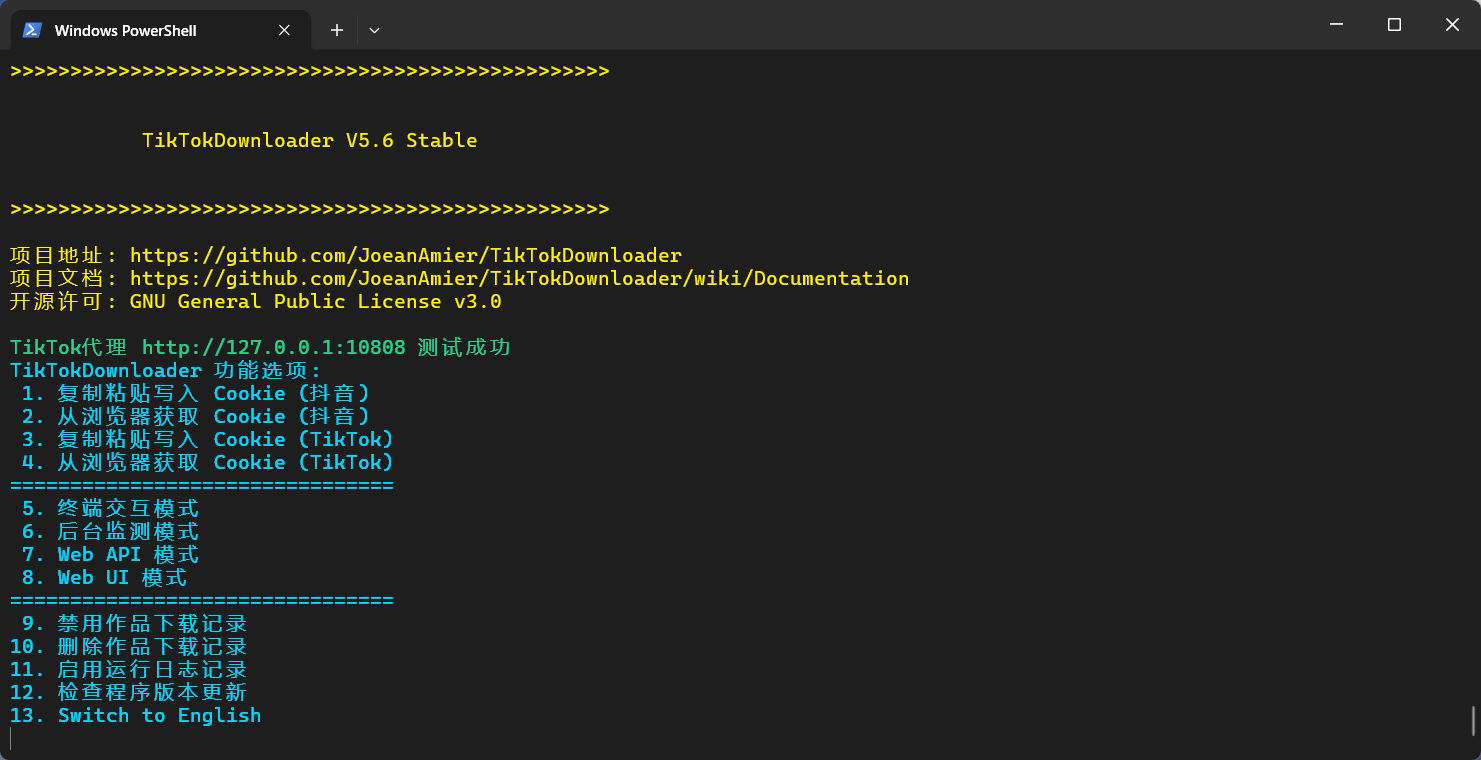
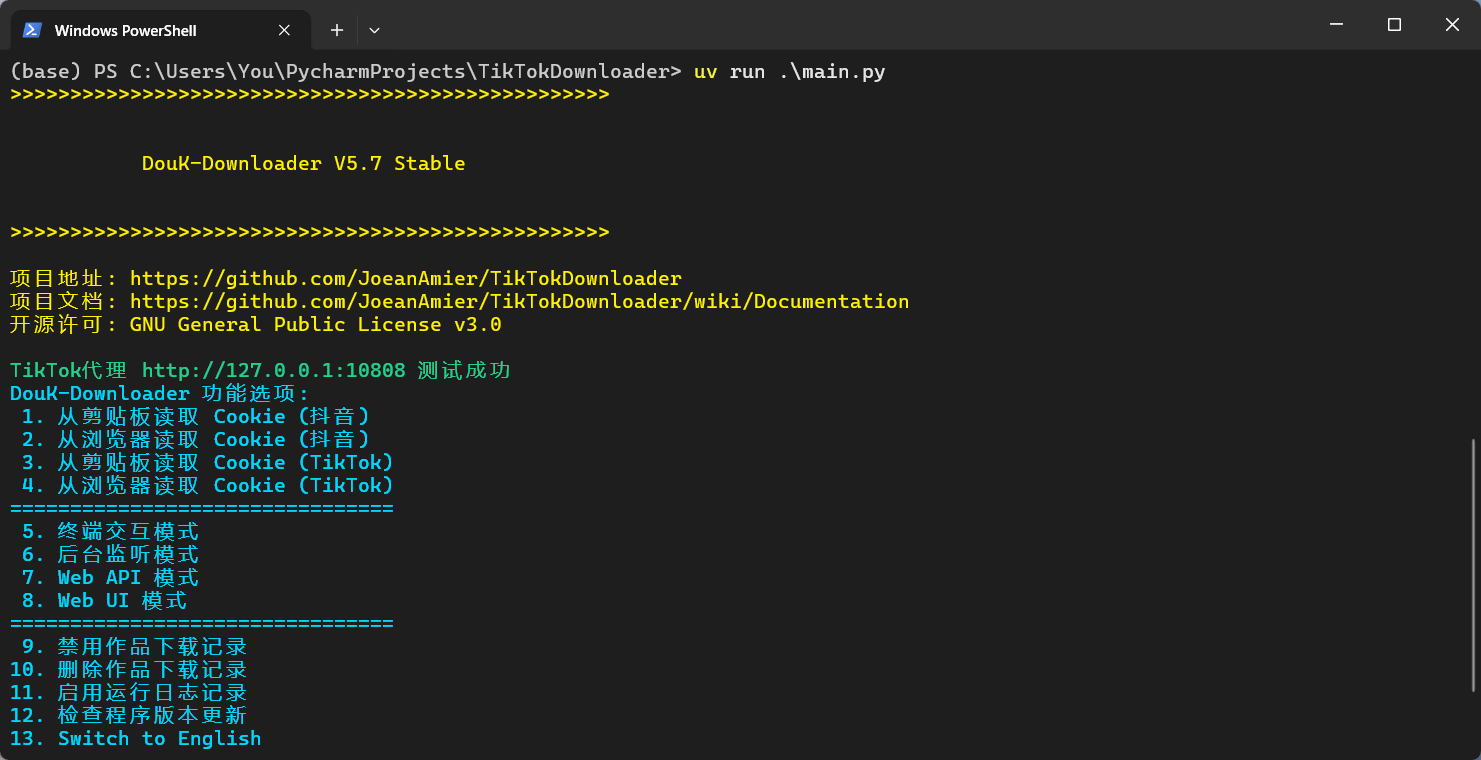
feat(app): 发布 5.7 版本

diff --git a/src/interface/live.py b/src/interface/live.py
@@ -18,8 +18,8 @@ class Live(API):
         cookie: str = "",
         proxy: str = None,
         web_rid: str = ...,
-        room_id: str = None,
-        sec_user_id: str = None,
+        room_id: str = ...,
+        sec_user_id: str = "",
     ):
         super().__init__(params, cookie, proxy)
         self.black_headers = params.headers_download
@@ -34,7 +34,7 @@ class Live(API):
     ) -> dict:
         if isinstance(self.web_rid, str):
             return await self.with_web_rid()
-        elif self.room_id and self.sec_user_id:
+        elif self.room_id:
             return await self.with_room_id()
         else:
             raise DownloaderError
@@ -68,12 +68,11 @@ class Live(API):
         )
 
     async def with_room_id(self) -> dict:
-        params = {  # 已失效
+        params = {
             "type_id": "0",
             "live_id": "1",
             "room_id": self.room_id,
             "sec_user_id": self.sec_user_id,
-            "version_code": "99.99.99",
             "app_id": "1128",
         }
         return await self.request_data(
@@ -89,7 +88,7 @@ async def test():
     async with Params() as params:
         i = Live(
             params,
-            web_rid="",
+            room_id="",
         )
         print(await i.run())
 

diff --git a/src/interface/mix_tiktok.py b/src/interface/mix_tiktok.py
@@ -1,6 +1,4 @@
-from typing import Callable
-from typing import TYPE_CHECKING
-from typing import Union
+from typing import TYPE_CHECKING, Callable, Union
 
 from src.interface.template import APITikTok
 from src.translation import _
@@ -136,9 +134,14 @@ async def test():
     from src.testers import Params
 
     async with Params() as params:
-        i = MixTikTok(
+        # i = MixTikTok(
+        #     params,
+        #     mix_id="",
+        # )
+        # print(await i.run())
+        i = MixListTikTok(
             params,
-            mix_id="",
+            sec_user_id="",
         )
         print(await i.run())
 

diff --git a/src/custom/internal.py b/src/custom/internal.py
@@ -4,7 +4,7 @@ PROJECT_ROOT = Path(__file__).resolve().parent.parent.parent.joinpath("Volume")
 PROJECT_ROOT.mkdir(exist_ok=True)
 VERSION_MAJOR = 5
 VERSION_MINOR = 7
-VERSION_BETA = True
+VERSION_BETA = False
 __VERSION__ = f"{VERSION_MAJOR}.{VERSION_MINOR}.{'beta' if VERSION_BETA else 'stable'}"
 PROJECT_NAME = f"DouK-Downloader V{VERSION_MAJOR}.{VERSION_MINOR} {
     'Beta' if VERSION_BETA else 'Stable'

diff --git a/docs/DouK-Downloader文档.md b/docs/DouK-Downloader文档.md
@@ -16,7 +16,7 @@
 </div>
 <br>
 <p>🔥 <b>TikTok 发布/喜欢/合辑/直播/视频/图集/音乐；抖音发布/喜欢/收藏/收藏夹/视频/图集/实况/直播/音乐/合集/评论/账号/搜索/热榜数据采集工具：</b>完全开源，基于 HTTPX 模块实现的免费数据采集和文件下载工具；批量下载抖音账号发布、喜欢、收藏、收藏夹作品；批量下载 TikTok 账号发布、喜欢作品；下载抖音链接或 TikTok 链接作品；获取抖音直播推流地址；下载抖音直播视频；获取 TikTok 直播推流地址；下载 TikTok 直播视频；采集抖音作品评论数据；批量下载抖音合集作品；批量下载 TikTok 合辑作品；采集抖音账号详细数据；采集抖音用户 / 作品 / 直播搜索结果；采集抖音热榜数据。</p>
-<p>⭐ <b>项目版本：<code>5.7 Beta</code>；更新日期：<code>2025/8/19</code></b></p>
+<p>⭐ <b>项目版本：<code>5.7 Stable</code>；文档更新日期：<code>2025/8/19</code></b></p>
 <p>⭐ <b>项目文档正在完善，如果发现任何错误或描述模糊之处，请告知作者以便改进！本项目历史名称：<code>TikTokDownloader</code></b></p>
 <hr>
 <h1>快速入门</h1>
@@ -175,7 +175,7 @@ built with gcc 14.2.0 (crosstool-NG 1.27.0.18_7458341)
 </tbody></table>
 <h2>关闭平台功能</h2>
 <p>本项目支持抖音平台和 TikTok 平台的数据采集和文件下载功能，平台功能默认开启，如果不需要使用平台的任何功能，可以编辑配置文件关闭平台功能。</p>
-<p><del>本项目内置参数更新机制，程序会周期性更新抖音与 TikTok 请求的部分参数，以保持参数的有效性（或许没有效果？），该功能无法防止参数失效，参数失效后需要重新写入 Cookie；关闭平台功能后，对应平台的参数更新功能将会禁用！</del></p>
+<p>本项目内置参数更新机制，程序会周期性更新抖音与 TikTok 请求的部分参数，以保持参数的有效性（或许没有效果？），该功能无法防止参数失效，参数失效后需要重新写入 Cookie；关闭平台功能后，对应平台的参数更新功能将会禁用！</p>
 <h1>配置文件</h1>
 <p>配置文件：项目根目录下的 <code>./Volume/settings.json</code> 文件，可以自定义设置程序部分运行参数。</p>
 <p>若无特殊需求，大部分配置参数无需修改，直接使用默认值即可。</p>
@@ -555,7 +555,7 @@ built with gcc 14.2.0 (crosstool-NG 1.27.0.18_7458341)
     "browser_language": "zh-SG",
     "browser_name": "Mozilla",
     "browser_platform": "Win32",
-    "browser_version": "5.0 (Windows NT 10.0; Win64; x64) AppleWebKit/537.36 (KHTML, like Gecko) Chrome/136.0.0.0 Safari/537.36",
+    "browser_version": "5.0 (Windows NT 10.0; Win64; x64) AppleWebKit/537.36 (KHTML, like Gecko) Chrome/139.0.0.0 Safari/537.36",
     "language": "zh-Hans",
     "os": "windows",
     "priority_region": "CN",
@@ -737,15 +737,14 @@ built with gcc 14.2.0 (crosstool-NG 1.27.0.18_7458341)
 <li>v2rayN: <code>http://127.0.0.1:10809</code></li>
 </ul>
 <h1>高级配置</h1>
-<p>如果想要进一步修改程序功能，可以编辑 <code>src/custom</code> 文件夹内容（仅适用于通过源码运行项目），按照注释指引和实际需求进行自定义修改。</p>
+<p>如果想要进一步修改程序功能，可以编辑 <code>src/custom</code> 文件夹内容（不适用于可执行文件），按照注释指引和实际需求进行自定义修改。</p>
 <b>部分可自定义设置的功能：</b>
 <ul>
 <li>设置作品文件下载的最大线程数量</li>
-<li>设置文件名称的作品描述长度限制</li>
 <li>设置非法字符替换规则</li>
 <li>开启服务器模式局域网访问功能</li>
 <li>设置服务器模式主机及端口</li>
-<li><del>设置平台参数更新间隔</del></li>
+<li>设置平台参数更新间隔</li>
 <li>设置彩色交互提示颜色</li>
 <li>设置请求数据延时间隔</li>
 <li>设置自定义作品筛选规则</li>
@@ -777,7 +776,7 @@ built with gcc 14.2.0 (crosstool-NG 1.27.0.18_7458341)
 <li><code>https://www.douyin.com/user/账号ID</code></li>
 <li><code>https://www.douyin.com/user/账号ID?modal_id=作品ID</code></li>
 </ul>
-<p>如果需要大批量采集账号作品，建议启用 <code>src/custom/function.py</code> 文件的 <code>suspend</code> 方法。</p>
+<p><del>如果需要大批量采集账号作品，建议启用 <code>src/custom/function.py</code> 文件的 <code>suspend</code> 方法。</del>（默认启用）</p>
 <p><b>下载账号喜欢作品时需要使用已登录的 Cookie，否则程序可能无法正常获取账号消息！</b></p>
 <p>如果当前账号昵称或账号标识不是有效的文件夹名称时，程序会自动替换为账号 ID。</p>
 <p>每个账号的作品会下载至 <code>root</code> 参数路径下的账号文件夹，账号文件夹格式为 <code>UID123456789_mark_类型</code> 或者 <code>UID123456789_账号昵称_类型</code></p>
@@ -851,7 +850,7 @@ built with gcc 14.2.0 (crosstool-NG 1.27.0.18_7458341)
 <li><code>https://www.douyin.com/collection/合集ID</code></li>
 <li><code>https://www.douyin.com/channel/分区ID?modal_id=作品ID</code></li>
 </ul>
-<p>如果需要大批量采集合集作品，建议启用 <code>src/custom/function.py</code> 文件的 <code>suspend</code> 方法。</p>
+<p><del>如果需要大批量采集合集作品，建议启用 <code>src/custom/function.py</code> 文件的 <code>suspend</code> 方法。</del>（默认启用）</p>
 <p>如果当前合集标题或合集标识不是有效的文件夹名称时，程序会自动替换为合集 ID。</p>
 <p>每个合集的作品会下载至 <code>root</code> 参数路径下的合集文件夹，合集文件夹格式为 <code>MIX123456789_mark_合集作品</code> 或者 <code>MIX123456789_合集标题_合集作品</code></p>
 <h3>采集账号详细数据(抖音)</h3>
@@ -1057,7 +1056,7 @@ built with gcc 14.2.0 (crosstool-NG 1.27.0.18_7458341)
 <li><code>https://www.tiktok.com/@TikTok号</code></li>
 <li><code>https://www.tiktok.com/@TikTok号/video/作品ID</code></li>
 </ul>
-<p>如果需要大批量采集账号作品，建议启用 <code>src/custom/function.py</code> 文件的 <code>suspend</code> 方法。</p>
+<p><del>如果需要大批量采集账号作品，建议启用 <code>src/custom/function.py</code> 文件的 <code>suspend</code> 方法。</del>（默认启用）</p>
 <p>如果当前账号昵称或账号标识不是有效的文件夹名称时，程序会自动替换为账号 ID。</p>
 <p>每个账号的作品会下载至 <code>root</code> 参数路径下的账号文件夹，账号文件夹格式为 <code>UID123456789_mark_类型</code> 或者 <code>UID123456789_账号昵称_类型</code></p>
 <h3>批量下载链接作品(TikTok)</h3>
@@ -1083,7 +1082,7 @@ built with gcc 14.2.0 (crosstool-NG 1.27.0.18_7458341)
 <li><code>https://www.tiktok.com/@TikTok号/playlist/合辑信息</code></li>
 <li><code>https://www.tiktok.com/@TikTok号/collection/合辑信息</code></li>
 </ul>
-<p>如果需要大批量采集合集作品，建议启用 <code>src/custom/function.py</code> 文件的 <code>suspend</code> 方法。</p>
+<p><del>如果需要大批量采集合集作品，建议启用 <code>src/custom/function.py</code> 文件的 <code>suspend</code> 方法。</del>（默认启用）</p>
 <p>如果当前合集标题或合集标识不是有效的文件夹名称时，程序会自动替换为合集 ID。</p>
 <p>每个合集的作品会下载至 <code>root</code> 参数路径下的合集文件夹，合集文件夹格式为 <code>MIX123456789_mark_合集作品</code> 或者 <code>MIX123456789_合集标题_合集作品</code></p>
 <h3>获取直播推流地址(TikTok)</h3>

diff --git a/README_EN.md b/README_EN.md
@@ -76,15 +76,17 @@
 
 # 💻 Program Screenshot
 
+<p><a href="https://www.bilibili.com/video/BV1d7eAzTEFs/">Watch Demo on Bilibili</a>; <a href="https://youtu.be/yMU-RWl55hg">Watch Demo on YouTube</a></p>
+
 ## Terminal interaction mode
 
-<p><b>🎥 Click on the image to watch the demonstration video. It is recommended to manage accounts through configuration files. For more information, please refer to the <a href="https://github.com/JoeanAmier/TikTokDownloader/wiki/Documentation">documentation</a></b></p>
+<p>It is recommended to manage accounts through configuration files. For more information, please refer to the <a href="https://github.com/JoeanAmier/TikTokDownloader/wiki/Documentation">documentation</a></p>
 
-[![终端模式截图](docs/screenshot/终端交互模式截图EN1.png)](https://www.bilibili.com/video/BV18tVDzVEK7/)
+![终端模式截图](docs/screenshot/终端交互模式截图EN1.png)
 *****
-[![终端模式截图](docs/screenshot/终端交互模式截图EN2.png)](https://www.bilibili.com/video/BV18tVDzVEK7/)
+![终端模式截图](docs/screenshot/终端交互模式截图EN2.png)
 *****
-[![终端模式截图](docs/screenshot/终端交互模式截图EN3.png)](https://www.bilibili.com/video/BV18tVDzVEK7/)
+![终端模式截图](docs/screenshot/终端交互模式截图EN3.png)
 
 ## Web UI interaction mode
 

diff --git a/README.md b/README.md
@@ -75,15 +75,17 @@
 
 # 💻 程序截图
 
+<p><a href="https://www.bilibili.com/video/BV1d7eAzTEFs/">前往 bilibili 观看演示</a>；<a href="https://youtu.be/yMU-RWl55hg">前往 YouTube 观看演示</a></p>
+
 ## 终端交互模式
 
-<p><b>🎥 点击图片观看演示视频，建议通过配置文件管理账号，更多介绍请查阅 <a href="https://github.com/JoeanAmier/TikTokDownloader/wiki/Documentation">文档</a></b></p>
+<p>建议通过配置文件管理账号，更多介绍请查阅 <a href="https://github.com/JoeanAmier/TikTokDownloader/wiki/Documentation">文档</a></p>
 
-[![终端模式截图](docs/screenshot/终端交互模式截图CN1.png)](https://www.bilibili.com/video/BV18tVDzVEK7/)
+![终端模式截图](docs/screenshot/终端交互模式截图CN1.png)
 *****
-[![终端模式截图](docs/screenshot/终端交互模式截图CN2.png)](https://www.bilibili.com/video/BV18tVDzVEK7/)
+![终端模式截图](docs/screenshot/终端交互模式截图CN2.png)
 *****
-[![终端模式截图](docs/screenshot/终端交互模式截图CN3.png)](https://www.bilibili.com/video/BV18tVDzVEK7/)
+![终端模式截图](docs/screenshot/终端交互模式截图CN3.png)
 
 ## Web UI 交互模式
 
